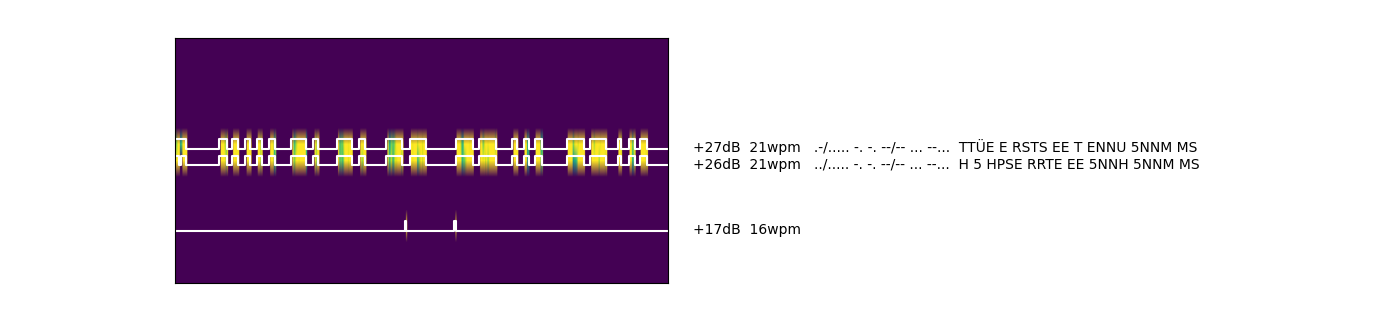
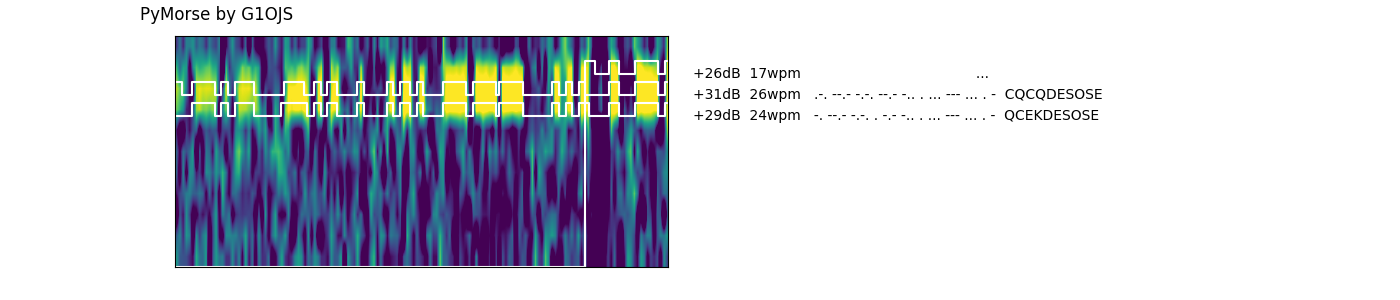
for PyPi

Changed region(s): [[0.0921, 0.0, 0.86, 0.9], [0.7064, 0.36, 0.7986, 0.42], [0.6757, 0.3, 0.7986, 0.33]]

diff --git a/pymorse/PyMorse_OOK.py b/pymorse/PyMorse_OOK.py
@@ -261,8 +261,9 @@ class App:
                 for fb in fbins_to_decode:
                     if fb not in current_bins_with_decoders:
                         weakest_decoder = decoders_sorted[0]
-                        weakest_decoder.set_fbin(fb)
-                        break
+                        if(self.s_meter[fb] > 2 + self.s_meter[weakest_decoder.fbin]):
+                            weakest_decoder.set_fbin(fb)
+                            break
 
             spec_plot.set_array(self.waterfall)
             
